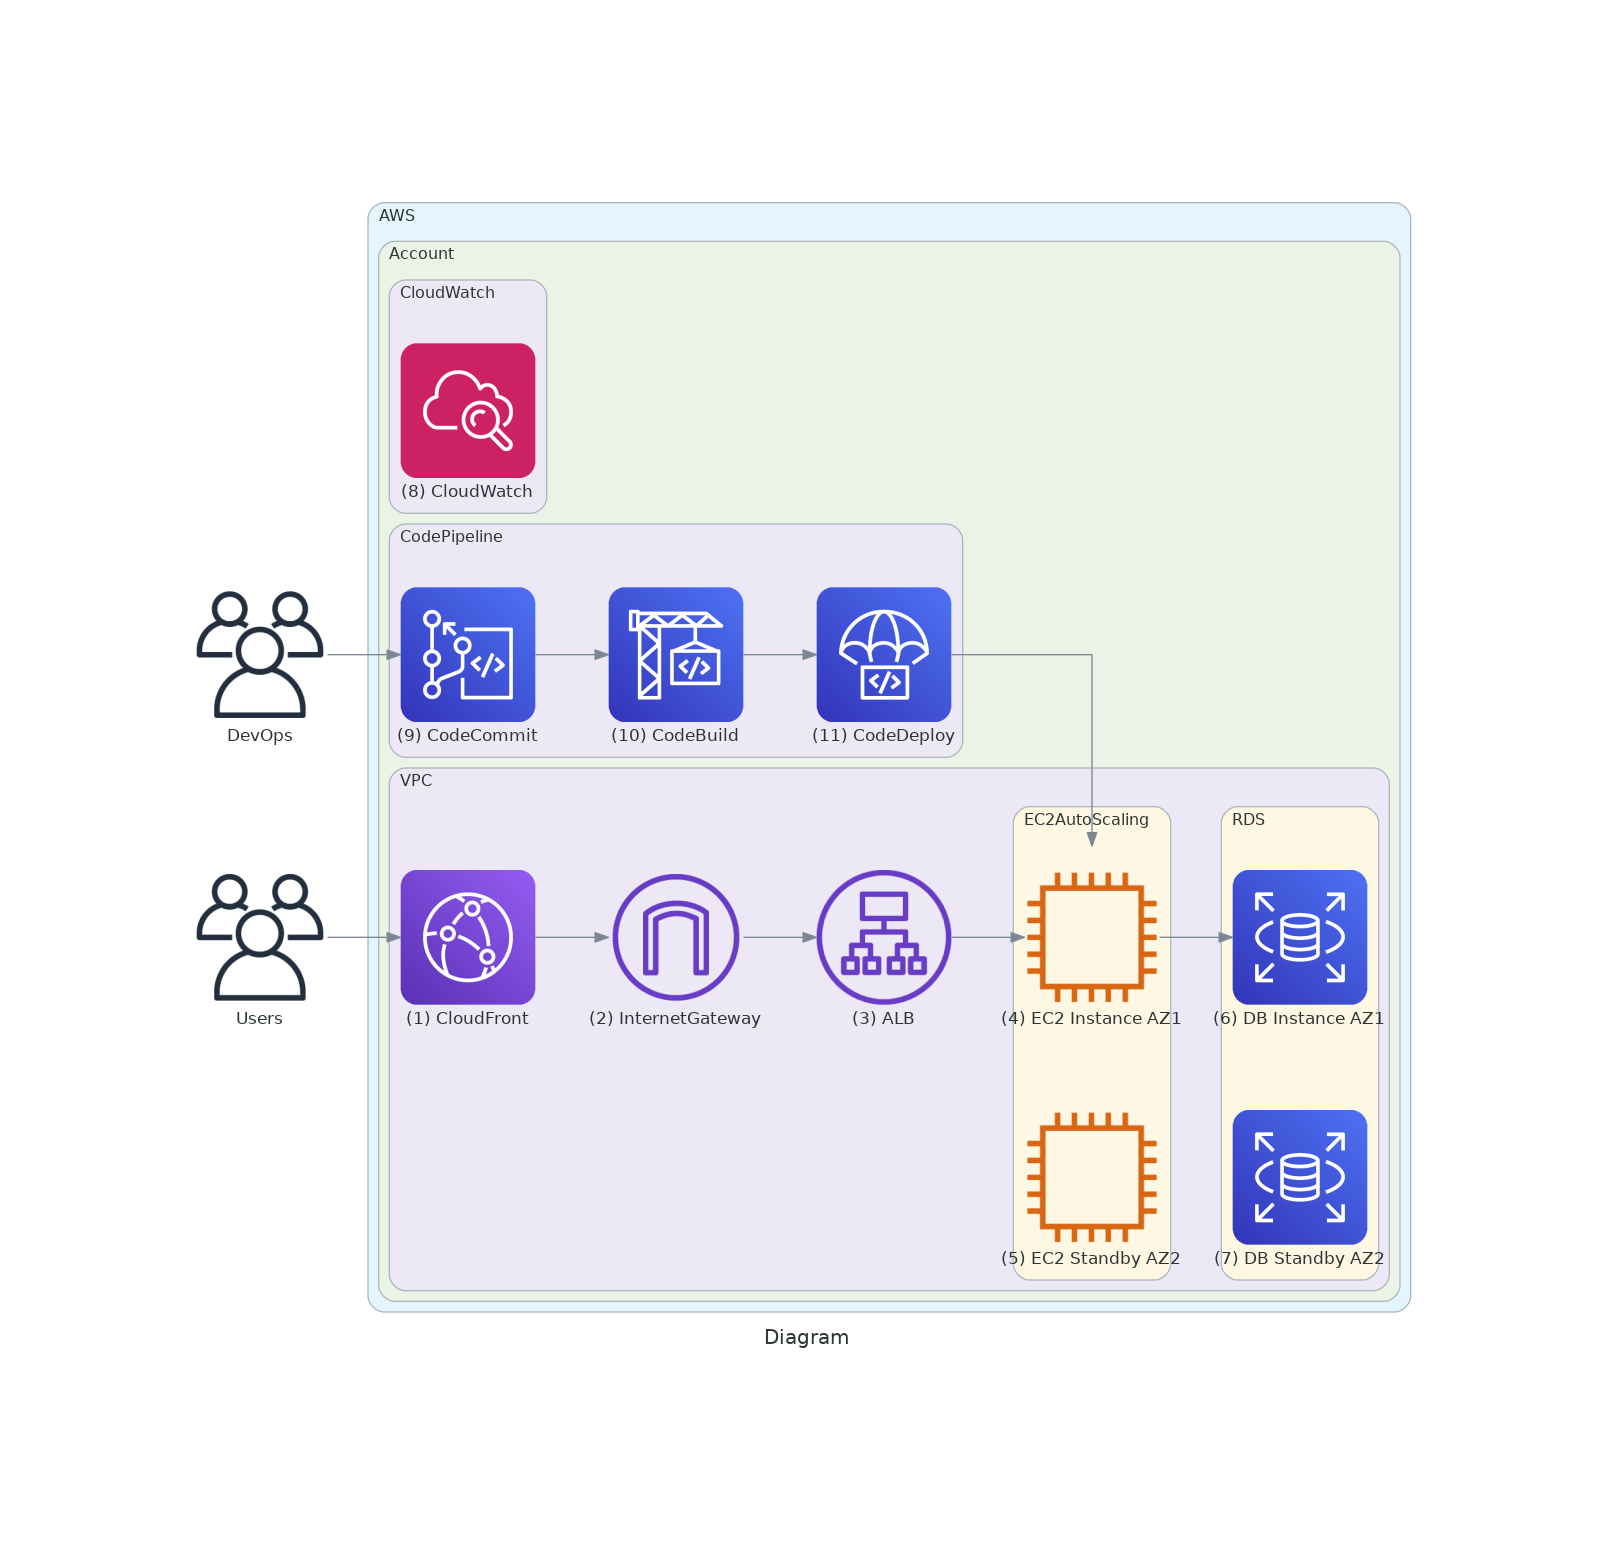
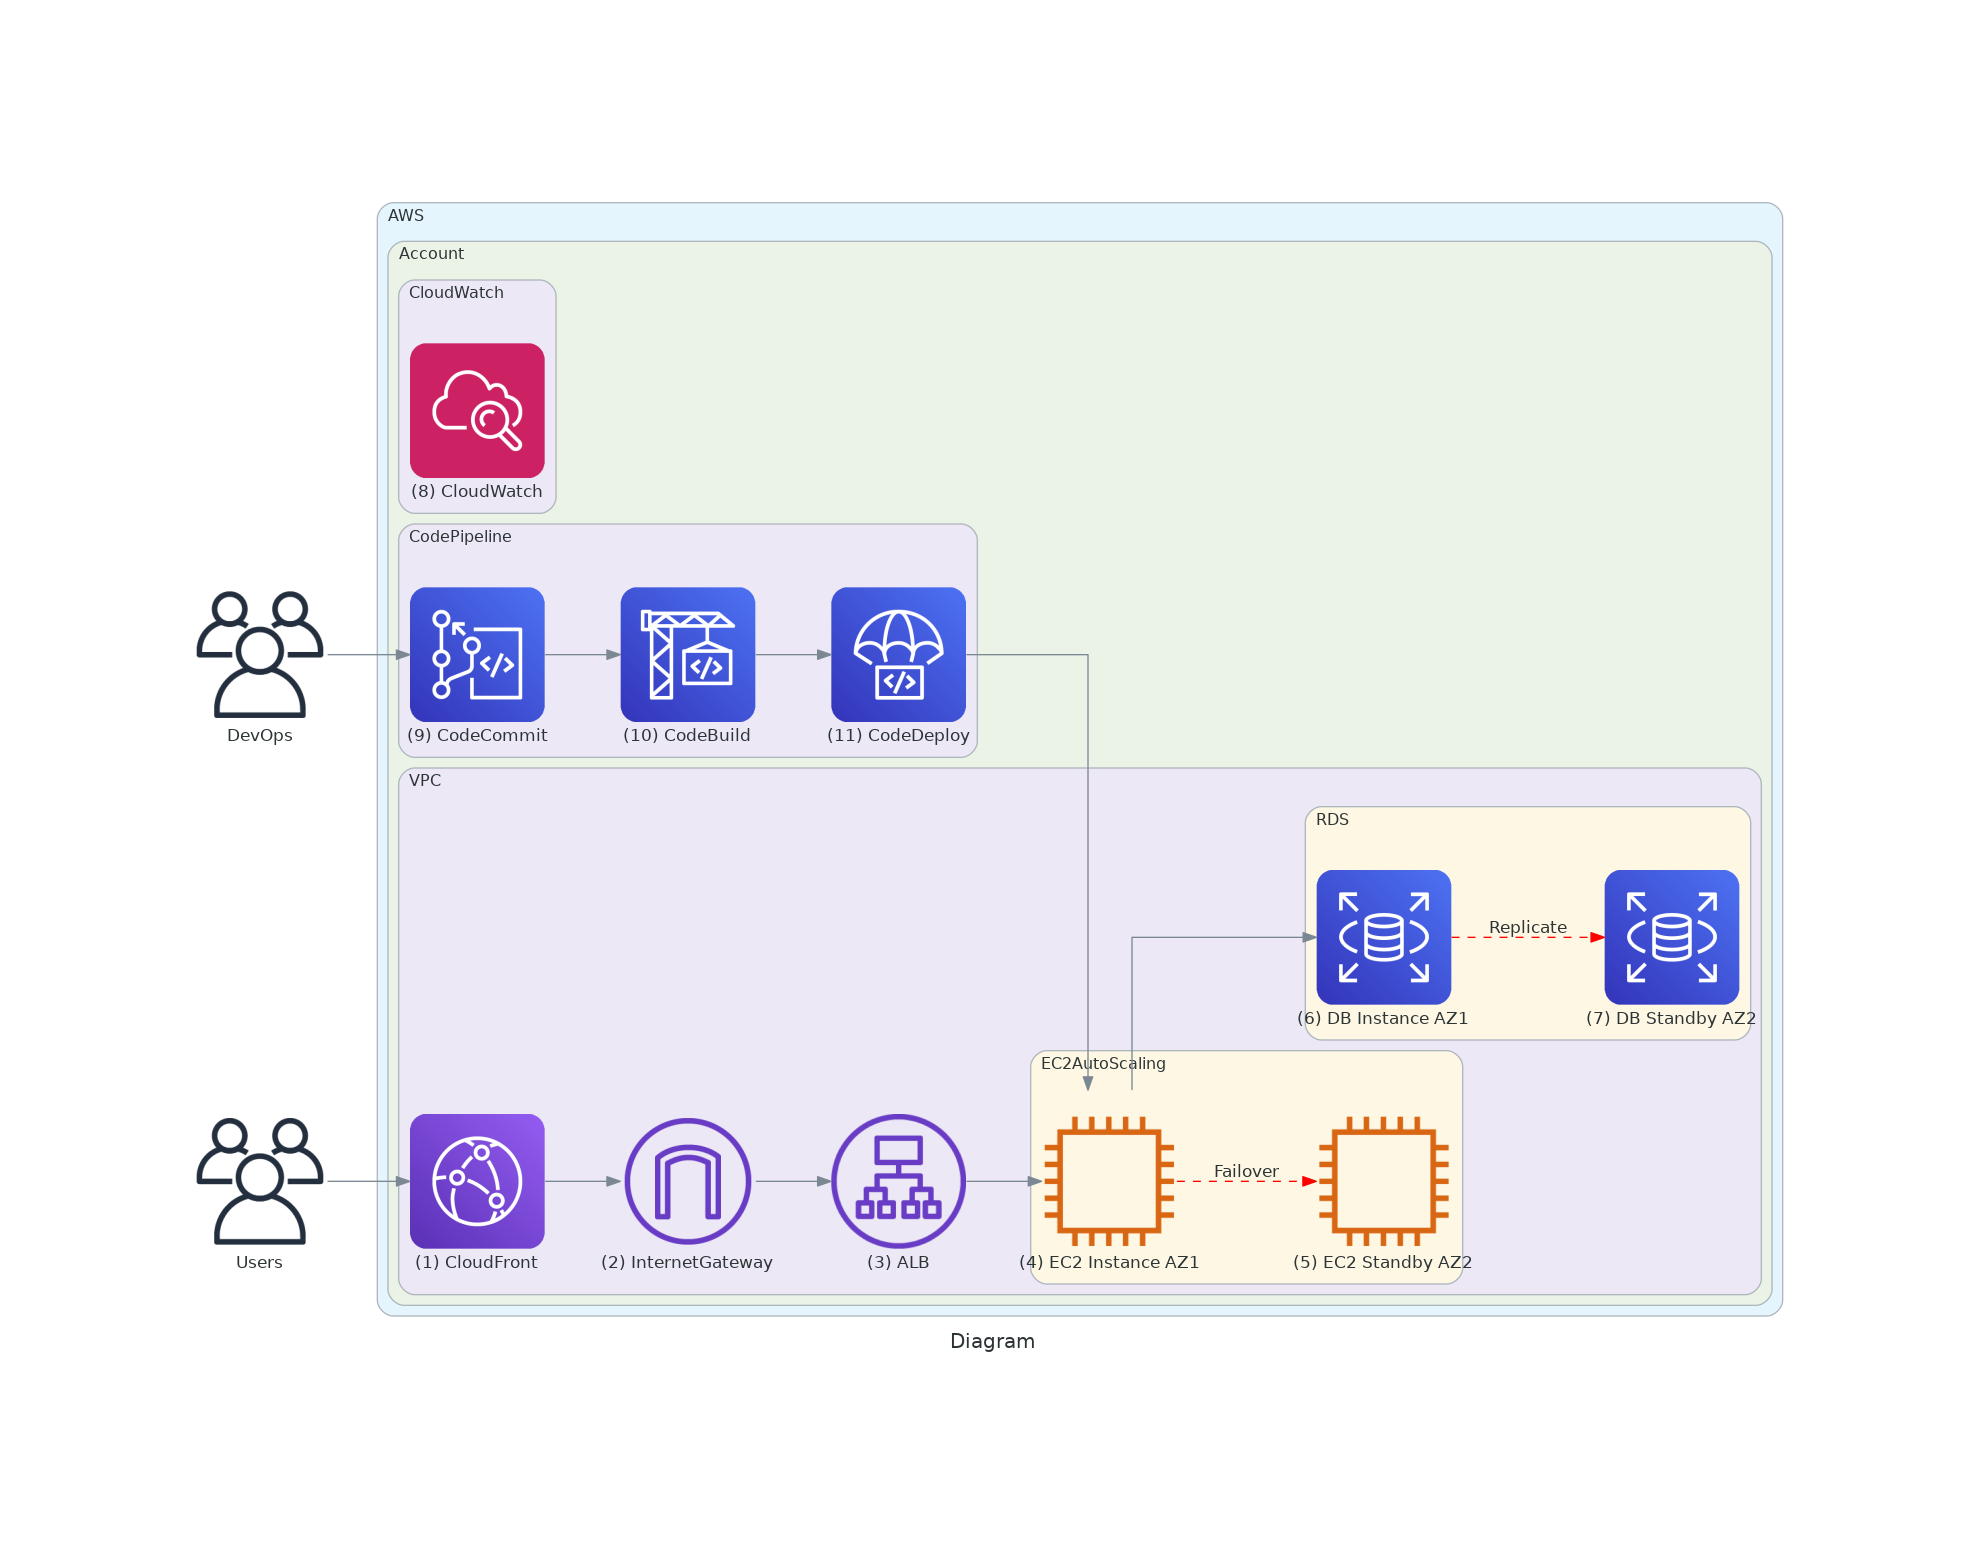
commit

Changed region(s): [[0.093, 0.124, 0.589, 0.8682], [0.31, 0.124, 0.8989, 0.8682], [0.372, 0.5581, 0.465, 0.6822]]

diff --git a/diagram.py b/diagram.py
@@ -22,11 +22,11 @@ with Diagram("Diagram", direction="LR", show=False):
 
                 with Cluster("EC2AutoScaling"):
                     EC2Instance = [EC2Instance("(4) EC2 Instance AZ1"), EC2Instance("(5) EC2 Standby AZ2")]
-#                EC2Instance[0] >> Edge(color="red", style="dashed", label="Failover") >> EC2Instance[1]
+                EC2Instance[0] >> Edge(color="red", style="dashed", label="Failover") >> EC2Instance[1]
 
                 with Cluster("RDS"):
                     RDS = [RDS("(6) DB Instance AZ1"), RDS("(7) DB Standby AZ2")]      
-#                RDS[0] >> Edge(color="red", style="dashed", label="Replicate") >> RDS[1]
+                RDS[0] >> Edge(color="red", style="dashed", label="Replicate") >> RDS[1]
 
                 Users >> CloudFront >> InternetGateway >> ALB >> EC2Instance[0] >> RDS[0]
 
